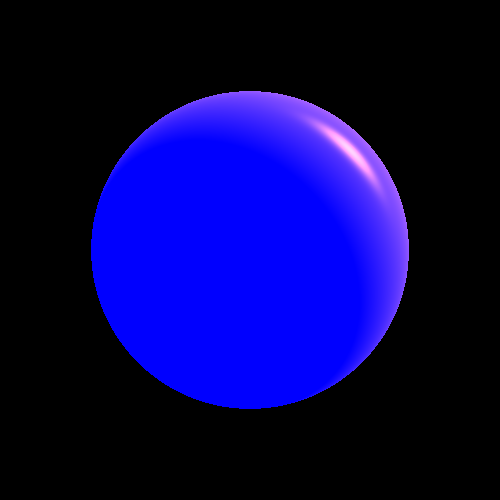
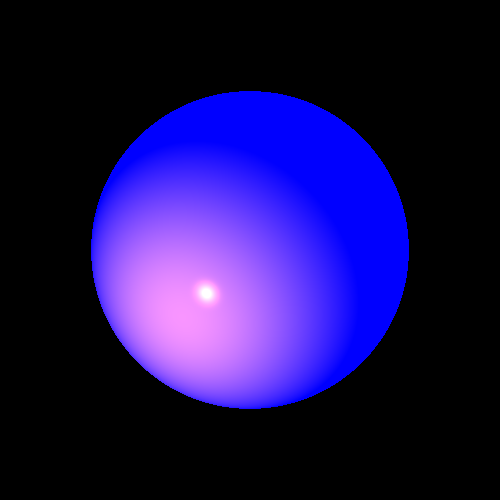
end of exercise 6

Changed region(s): [[0.18, 0.18, 0.84, 0.84]]

diff --git a/src/renderer/BasicRayTracer.java b/src/renderer/BasicRayTracer.java
@@ -8,6 +8,7 @@ import scene.Scene;
 import java.util.List;
 
 import static primitives.Util.alignZero;
+import static primitives.Util.isZero;
 
 /**
  * class that inheritor the abstract class RayTracerBase
@@ -38,29 +39,6 @@ public class BasicRayTracer extends RayTracerBase {
     }
 
     /**
-     * help function to do the sigma that exist at the Phong model
-     * @param lightSourceList
-     * @param geoPoint
-     * @return
-     */
-//    public double sumPhong(List<LightSource> lightSourceList, GeoPoint geoPoint) {
-//        double sigma = 0d;
-//        double kd;
-//        double ks;
-//        Vector l;
-//        Vector n;
-//        // Color iL;
-//
-//        for (int i = 0; i < lightSourceList.size(); i++) {
-//            kd = geoPoint._geometry.getMaterial()._kD;
-//            ks = geoPoint._geometry.getMaterial()._kS;
-//            l = lightSourceList.get(i).getL(geoPoint._point);
-//            n = geoPoint._geometry.getNormal(geoPoint._point);
-//        }
-//        return 0;
-//    }
-
-    /**
      * function that calculate the color of point
      * @param geoPoint the point we want to calculate the color for
      * @return the color the function found
@@ -80,10 +58,10 @@ public class BasicRayTracer extends RayTracerBase {
      * @return
      */
     private Color calcLocalEffects(GeoPoint intersection, Ray ray) {
-        Vector v = ray.getDir();
+        Vector v = ray.getDir();//the vector of the ray
         Vector n = intersection._geometry.getNormal(intersection._point);//get the normal of the geometry
         double nv = alignZero(n.dotProduct(v));
-        if (nv == 0) {//the vectors are orthogonal each other
+        if (isZero(nv)) {//the vectors are orthogonal each other
             return Color.BLACK;
         }
         Material material = intersection._geometry.getMaterial();
@@ -115,7 +93,7 @@ public class BasicRayTracer extends RayTracerBase {
      */
     private Color calcSpecular(double ks, Vector l, Vector n, Vector v, int nShininess, Color lightIntensity) {
         Vector r=l.subtract(n.scale(l.dotProduct(n)*2));
-        double minus_vr=v.dotProduct(r)*-1;
+        double minus_vr=alignZero(v.dotProduct(r)*-1);
         return lightIntensity.scale(ks*Math.pow(Math.max(0,minus_vr),nShininess));
     }
 
@@ -128,7 +106,7 @@ public class BasicRayTracer extends RayTracerBase {
      * @return
      */
     private Color calcDiffusive(double kd, Vector l, Vector n, Color lightIntensity) {
-        double factor=Math.abs(l.dotProduct(n));
+        double factor=alignZero(Math.abs(l.dotProduct(n)));
         return lightIntensity.scale(kd*factor);
     }
 }

diff --git a/test/elements/LightsTests.java b/test/elements/LightsTests.java
@@ -147,4 +147,46 @@ public class LightsTests {
         render.writeToImage();
     }
 
+    /**
+     * Produce a picture of a sphere lighted by a directional light & point light & spot light
+     */
+    @Test
+    public void sphereMultiLights() {
+        scene1._geometries.add(sphere);
+        scene1._lights.add(new DirectionalLight(new Color(500, 300, 0), new Vector(-1, 1, 1)));
+        scene1._lights.add(new PointLight(new Color(255,100,10),new Point3D(100,0,-50)).setKl(0.001).setKq(0.00001));
+        scene1._lights.add(new SpotLight(new Color(255,255,0),new Point3D(0,0,25),new Vector(0,0,-1)).setKl(0.001).setKq(0.00001));
+
+        ImageWriter imageWriter = new ImageWriter("lightSphereMultiLights", 500, 500);
+        Render render = new Render()//
+                .setImageWriter(imageWriter) //
+                .setCamera(camera1) //
+                .setRayTracerBase(new BasicRayTracer(scene1))
+                .setScene(scene1);
+        render.renderImage();
+        render.writeToImage();
+    }
+
+    /**
+     * Produce a picture of a two triangles lighted by a directional light & point light & spot light
+     */
+    @Test
+    public void trianglesMultiLights() {
+        scene2._geometries.add(triangle1.setMaterial(new Material().setKd(0.1).setKs(0.2).setnShininess(0)), //
+                triangle2.setMaterial(new Material().setKd(0.5).setKs(0.2).setnShininess(0)));
+        scene2._lights.add(new DirectionalLight(new Color(10, 200, 10), new Vector(0, 0, -1)));
+        scene2._lights.add(new PointLight(new Color(10, 150, 10), new Point3D(100,-100,-100)));
+        scene2._lights.add(new SpotLight(new Color(0, 150, 0),new Point3D(75,75,-75) ,new Vector(0, 0, -1)));
+
+        ImageWriter imageWriter = new ImageWriter("lightTrianglesMultiLights", 500, 500);
+        Render render = new Render()//
+                .setImageWriter(imageWriter) //
+                .setCamera(camera2) //
+                .setRayTracerBase(new BasicRayTracer(scene2))
+                .setScene(scene2);
+        render.renderImage();
+        render.writeToImage();
+    }
+
+
 }

diff --git a/src/elements/SpotLight.java b/src/elements/SpotLight.java
@@ -24,7 +24,7 @@ public class SpotLight extends PointLight {
      */
     public SpotLight(Color intensity, Point3D position, Vector direction) {
         super(intensity, position);
-        _direction = direction;
+        _direction = direction.normalized();
     }
 
     /**
@@ -34,22 +34,11 @@ public class SpotLight extends PointLight {
      */
     @Override
     public Color getIntensity(Point3D p) {
-        double factor = alignZero(Math.max(0, _direction.dotProduct(getL(p))));
 
-        if (!isZero(factor)) {
-            return super.getIntensity(p).scale(factor);
-        }
-        throw new IllegalArgumentException("the angle equals to 0");
+        Color intensity=super.getIntensity(p);
+        double f=alignZero(_direction.dotProduct(getL(p)));
+        return intensity.scale(Math.max(0,f));
+
     }
 
-    /**
-     * function to find the direction of the light that went to from the
-     * spot light to the shape
-     * @param p
-     * @return
-     */
-    @Override
-    public Vector getL(Point3D p) {
-        return super.getL(p).normalized();
-    }
 }

diff --git a/src/elements/PointLight.java b/src/elements/PointLight.java
@@ -4,6 +4,8 @@ import primitives.Color;
 import primitives.Point3D;
 import primitives.Vector;
 
+import static primitives.Util.alignZero;
+
 
 /**
  * class for the point light that implements light source and inherits from light class
@@ -31,7 +33,7 @@ public class PointLight extends Light implements LightSource {
      */
     @Override
     public Color getIntensity(Point3D p) {
-        double d = _position.distance(p);
+        double d =alignZero(_position.distance(p));
         return (this.getIntensity()).reduce( _kC + _kL * d + _kQ * d * d);
     }
 
@@ -43,7 +45,7 @@ public class PointLight extends Light implements LightSource {
      */
     @Override
     public Vector getL(Point3D p) {
-        return _position.subtract(p).normalized();
+        return p.subtract(_position).normalized();
     }
 
 
